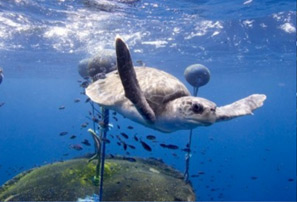
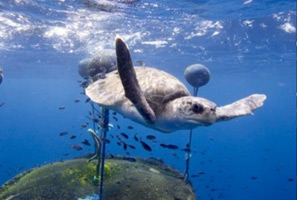
add styles and crop images slightly more convincingly

diff --git a/index.html b/index.html
@@ -219,8 +219,15 @@
 
       <div class="usa-site-banner usa-site-album">
         <div class="usa-grid">
-          <div class="usa-width-one-whole">
-            <h2>Placeholder for photo plugin</h2>
+          <div class="usa-width-one-whole" id="usa-site-zeitgiest">
+            <img src="img/zeitgeist/image_01.jpg" alt="A sea turtle swimming" />
+            <img src="img/zeitgeist/image_02.jpg" alt="Someone holding a sign in front of the US Capitol" />
+            <img src="img/zeitgeist/image_03.jpg" alt="The greenpeace ship" />
+            <img src="img/zeitgeist/image_04.jpg" alt="A crowd of kayakers waving their oars" />
+            <img src="img/zeitgeist/image_05.jpg" alt="Protesters flying a sign" />
+            <img src="img/zeitgeist/image_06.jpg" alt="A wheelbarrow full of baby orangutans" />
+            <img src="img/zeitgeist/image_07.jpg" alt="Protesters hanging off of the St. John's bridge" />
+            <img src="img/zeitgeist/image_08.jpg" alt="A zen-like blue square" />
           </div>
         </div>
       </div>

diff --git a/css/main.css b/css/main.css
@@ -271,6 +271,13 @@ body {
   color: #fff;
 }
 
+.usa-site-album img{
+  margin: 0; padding: 0;
+  display: block;
+  float: left;
+  max-width: 245px;
+}
+
 .usa-site-footer {
   text-align: left;
   font-size: 0.8em;
